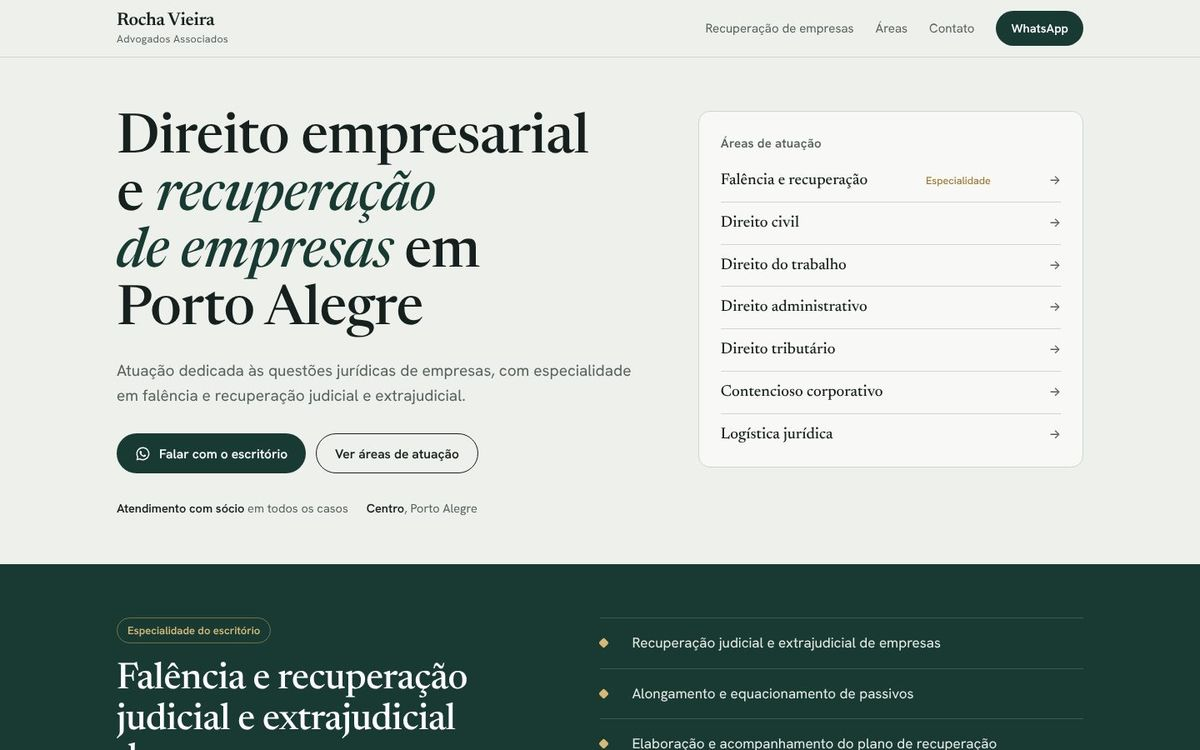
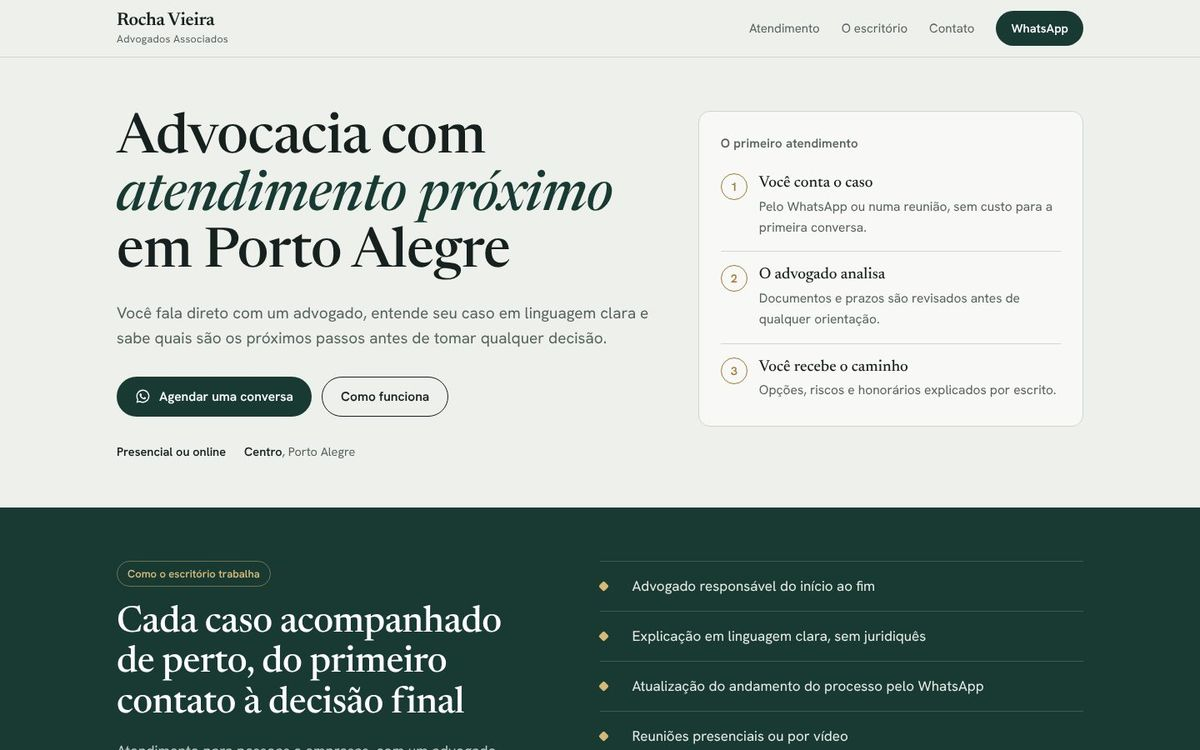
Modelo de advocacia genérico, sem áreas de atuação
Claude-Session: https://claude.ai/code/session_01BucXToaDXgnpeatRSNxMeH

diff --git a/modelo-advocacia/index.html b/modelo-advocacia/index.html
@@ -4,7 +4,7 @@
 <meta charset="utf-8">
 <meta name="viewport" content="width=device-width, initial-scale=1">
 <title>Modelo de site para escritório de advocacia | Luís Antônio</title>
-<meta name="description" content="Modelo de site para escritório de advocacia feito por Luís Antônio: áreas de atuação, sócios, contato e WhatsApp, pronto para celular.">
+<meta name="description" content="Modelo de site para escritório de advocacia feito por Luís Antônio: apresentação, atendimento, sócios, contato e WhatsApp, pronto para celular.">
 
 <meta name="theme-color" content="#eef0ec">
 <link rel="icon" href="/modelo-advocacia/favicon.svg" type="image/svg+xml">
@@ -77,6 +77,12 @@ p{margin:0}
 .index li a span + *{margin-left:auto}
 @media (max-width:900px){.hero{padding:40px 0 44px}.hero .wrap{grid-template-columns:1fr;gap:36px}}
 
+.steps{list-style:none;margin:0;padding:0;counter-reset:st}
+.steps li{counter-increment:st;display:grid;grid-template-columns:34px 1fr;gap:4px 12px;padding:16px 0;border-top:1px solid var(--line)}
+.steps li:first-child{border-top:0}
+.steps li::before{content:counter(st);grid-row:span 2;width:30px;height:30px;border-radius:50%;border:1px solid var(--brass);color:var(--brass);display:grid;place-items:center;font:600 14px/1 var(--sans)}
+.steps b{font:500 19px/1.25 var(--serif)}
+.steps span{color:var(--muted);font-size:15.5px}
 /* especialidade */
 .spec{background:var(--green);color:#e9ece6;padding:64px 0}
 .spec .wrap{display:grid;grid-template-columns:.95fr 1.05fr;gap:56px;align-items:start}
@@ -158,8 +164,8 @@ footer .wrap{display:flex;flex-wrap:wrap;justify-content:space-between;gap:10px;
   <div class="wrap">
     <a class="brand" href="#topo" aria-label="Rocha Vieira Advogados Associados, início"><b translate="no">Rocha Vieira</b><span>Advogados Associados</span></a>
     <nav class="nav" aria-label="Seções">
-      <a href="#recuperacao">Recuperação de empresas</a>
-      <a href="#areas">Áreas</a>
+      <a href="#atendimento">Atendimento</a>
+      <a href="#escritorio">O escritório</a>
       <a href="#contato">Contato</a>
       <a class="btn btn--wa" href="https://wa.me/5551995837188?text=Oi%20Lu%C3%ADs!%20Vi%20o%20modelo%20de%20site%20para%20advogados%20e%20quero%20um%20para%20o%20meu%20escrit%C3%B3rio." target="_blank" rel="noopener">WhatsApp</a>
     </nav>
@@ -170,91 +176,54 @@ footer .wrap{display:flex;flex-wrap:wrap;justify-content:space-between;gap:10px;
   <section class="hero" id="topo" aria-labelledby="h1">
     <div class="wrap">
       <div>
-        <h1 id="h1">Direito empresarial e <em>recuperação de empresas</em> em Porto Alegre</h1>
-        <p class="lead">Atuação dedicada às questões jurídicas de empresas, com especialidade em falência e recuperação judicial e extrajudicial.</p>
+        <h1 id="h1">Advocacia com <em>atendimento próximo</em> em Porto Alegre</h1>
+        <p class="lead">Você fala direto com um advogado, entende seu caso em linguagem clara e sabe quais são os próximos passos antes de tomar qualquer decisão.</p>
         <div class="ctas">
           <a class="btn btn--wa" href="https://wa.me/5551995837188?text=Oi%20Lu%C3%ADs!%20Vi%20o%20modelo%20de%20site%20para%20advogados%20e%20quero%20um%20para%20o%20meu%20escrit%C3%B3rio." target="_blank" rel="noopener">
             <svg viewBox="0 0 24 24" aria-hidden="true"><path fill="currentColor" d="M12 2a10 10 0 0 0-8.6 15.1L2 22l5-1.3A10 10 0 1 0 12 2Zm0 18.2c-1.5 0-3-.4-4.3-1.2l-.3-.2-3 .8.8-2.9-.2-.3A8.2 8.2 0 1 1 12 20.2Zm4.5-6.1c-.2-.1-1.5-.7-1.7-.8-.2-.1-.4-.1-.6.1l-.8 1c-.1.2-.3.2-.5.1a6.7 6.7 0 0 1-3.3-2.9c-.2-.4.2-.4.7-1.3.1-.2 0-.3 0-.4l-.8-1.8c-.2-.5-.4-.4-.6-.4h-.5c-.2 0-.4.1-.6.3-.2.2-.8.8-.8 2s.8 2.3.9 2.5c.1.2 1.6 2.5 4 3.5 1.5.6 2.1.7 2.8.6.5-.1 1.5-.6 1.7-1.2.2-.6.2-1.1.2-1.2-.1-.1-.2-.2-.4-.3Z"/></svg>
-            Falar com o escritório
+            Agendar uma conversa
           </a>
-          <a class="btn btn--ghost" href="#areas">Ver áreas de atuação</a>
+          <a class="btn btn--ghost" href="#atendimento">Como funciona</a>
         </div>
-        <p class="meta"><span><strong>Atendimento com sócio</strong> em todos os casos</span><span><strong>Centro</strong>, Porto Alegre</span></p>
+        <p class="meta"><span><strong>Presencial ou online</strong></span><span><strong>Centro</strong>, Porto Alegre</span></p>
       </div>
-      <nav class="index" aria-labelledby="idx-h">
-        <h2 id="idx-h">Áreas de atuação</h2>
-        <ol>
-          <li><a href="#recuperacao">Falência e recuperação <span>Especialidade</span></a></li>
-          <li><a href="#a-civil">Direito civil</a></li>
-          <li><a href="#a-trabalho">Direito do trabalho</a></li>
-          <li><a href="#a-adm">Direito administrativo</a></li>
-          <li><a href="#a-trib">Direito tributário</a></li>
-          <li><a href="#a-cont">Contencioso corporativo</a></li>
-          <li><a href="#logistica">Logística jurídica</a></li>
+      <div class="index" aria-labelledby="steps-h">
+        <h2 id="steps-h">O primeiro atendimento</h2>
+        <ol class="steps">
+          <li><b>Você conta o caso</b><span>Pelo WhatsApp ou numa reunião, sem custo para a primeira conversa.</span></li>
+          <li><b>O advogado analisa</b><span>Documentos e prazos são revisados antes de qualquer orientação.</span></li>
+          <li><b>Você recebe o caminho</b><span>Opções, riscos e honorários explicados por escrito.</span></li>
         </ol>
-      </nav>
+      </div>
     </div>
   </section>
 
-  <section class="spec" id="recuperacao" aria-labelledby="rec-h">
+  <section class="spec" id="atendimento" aria-labelledby="at-h">
     <div class="wrap">
       <div>
-        <span class="tag">Especialidade do escritório</span>
-        <h2 id="rec-h">Falência e recuperação judicial e extrajudicial de empresas</h2>
-        <p>Quando a empresa precisa reorganizar dívidas ou enfrenta um pedido de falência, o escritório acompanha o processo do início ao fim, com assessoria em todas as áreas envolvidas.</p>
-        <a class="btn" href="https://wa.me/5551995837188?text=Oi%20Lu%C3%ADs!%20Vi%20o%20modelo%20de%20site%20para%20advogados%20e%20quero%20um%20para%20o%20meu%20escrit%C3%B3rio." target="_blank" rel="noopener">Conversar sobre a minha empresa</a>
+        <span class="tag">Como o escritório trabalha</span>
+        <h2 id="at-h">Cada caso acompanhado de perto, do primeiro contato à decisão final</h2>
+        <p>Atendimento para pessoas e empresas, com um advogado responsável por cada caso e retorno claro em cada etapa.</p>
+        <a class="btn" href="https://wa.me/5551995837188?text=Oi%20Lu%C3%ADs!%20Vi%20o%20modelo%20de%20site%20para%20advogados%20e%20quero%20um%20para%20o%20meu%20escrit%C3%B3rio." target="_blank" rel="noopener">Falar com um advogado</a>
       </div>
       <ul>
-        <li>Recuperação judicial e extrajudicial de empresas</li>
-        <li>Alongamento e equacionamento de passivos</li>
-        <li>Elaboração e acompanhamento do plano de recuperação</li>
-        <li>Assessoria completa, em todas as áreas, para empresas em recuperação</li>
-        <li>Acompanhamento até o final após a decretação de falência</li>
-        <li>Requerimento de encerramento judicial solicitado pelo devedor</li>
+        <li>Advogado responsável do início ao fim</li>
+        <li>Explicação em linguagem clara, sem juridiquês</li>
+        <li>Atualização do andamento do processo pelo WhatsApp</li>
+        <li>Reuniões presenciais ou por vídeo</li>
+        <li>Honorários combinados por escrito antes de começar</li>
       </ul>
     </div>
   </section>
 
-  <section class="areas" id="areas" aria-labelledby="areas-h">
-    <div class="wrap">
-      <div class="head">
-        <h2 id="areas-h">Outras áreas de atuação</h2>
-        <p>Direito civil, comercial, bancário, tributário, administrativo, trabalhista e contencioso corporativo. Toque em cada área para ver os serviços.</p>
-      </div>
-      <div class="acc">
-        <details id="a-civil">
-          <summary>Direito civil</summary>
-          <ul><li>Responsabilidade civil</li><li>Seguros</li><li>Danos moral e material</li><li>Medidas cautelares</li><li>Ações ordinárias</li><li>Ações de cobrança</li><li>Execuções</li><li>Embargos</li></ul>
-        </details>
-        <details id="a-trabalho">
-          <summary>Direito do trabalho</summary>
-          <ul><li>Defesas administrativas e judiciais</li><li>Assessoria de recursos humanos</li><li>Ações rescisórias e consignatórias</li><li>Embargos de terceiros e à execução</li><li>Mandado de segurança</li><li>Ações declaratórias</li></ul>
-        </details>
-        <details id="a-adm">
-          <summary>Direito administrativo</summary>
-          <ul><li>Acompanhamento de licitações</li><li>Análise de editais</li><li>Recursos administrativos e judiciais em licitações</li><li>Interposição de recursos administrativos</li><li>Impugnações de débitos fiscais</li></ul>
-        </details>
-        <details id="a-cont">
-          <summary>Contencioso corporativo</summary>
-          <ul><li>Responsabilidade civil</li><li>Seguros</li><li>Danos moral e material</li><li>Medidas cautelares</li><li>Ações de cobrança</li><li>Execuções e embargos</li></ul>
-        </details>
-        
-        <div class="row-plain" id="a-trib">Direito tributário <a href="https://wa.me/5551995837188?text=Oi%20Lu%C3%ADs!%20Vi%20o%20modelo%20de%20site%20para%20advogados%20e%20quero%20um%20para%20o%20meu%20escrit%C3%B3rio." target="_blank" rel="noopener">Consultar</a></div>
-        <div class="row-plain">Direito comercial e bancário <a href="https://wa.me/5551995837188?text=Oi%20Lu%C3%ADs!%20Vi%20o%20modelo%20de%20site%20para%20advogados%20e%20quero%20um%20para%20o%20meu%20escrit%C3%B3rio." target="_blank" rel="noopener">Consultar</a></div>
-      </div>
-    </div>
-  </section>
-
-  <section class="logi" id="logistica" aria-labelledby="logi-h">
+  <section class="logi" id="escritorio" aria-labelledby="esc-h" style="padding-top:64px">
     <div class="wrap">
       <div class="box">
-        <blockquote>“Cada caso é acompanhado de perto por um dos sócios, do primeiro contato à decisão final.”<cite>Rocha Vieira Advogados Associados</cite></blockquote>
+        <blockquote>“Preferimos explicar duas vezes a deixar uma dúvida sem resposta.”<cite>Rocha Vieira Advogados Associados</cite></blockquote>
         <div class="side">
-          <h2 id="logi-h">Logística jurídica</h2>
-          <p>Apoio a empresas e a outros escritórios nas etapas operacionais dos processos.</p>
-          <ul class="chips">
-            <li>Digitalização de processos</li><li>Retiradas</li><li>Busca e entrega de petições</li><li>Cartas precatórias</li><li>Distribuição de iniciais</li><li>Desentranhamento de documentos</li><li>Desarquivamentos</li><li>Confecção de peças processuais</li><li>Acompanhamentos</li><li>Audiências cíveis e trabalhistas</li><li>Prepostos</li>
-          </ul>
+          <h2 id="esc-h">O escritório</h2>
+          <p>Um escritório de porte enxuto, com sala no Centro de Porto Alegre e atendimento também por vídeo para clientes de outras cidades.</p>
+          <ul class="chips"><li>Atendimento com hora marcada</li><li>Reunião por vídeo</li><li>Retorno pelo WhatsApp</li><li>Contrato por escrito</li></ul>
         </div>
       </div>
     </div>
@@ -291,6 +260,5 @@ footer .wrap{display:flex;flex-wrap:wrap;justify-content:space-between;gap:10px;
 
 <a class="demo" href="https://luisantonio-portfolio.vercel.app/#trabalhos">Modelo de site para advogados, feito por Luís Antônio</a>
 <style>.demo{position:fixed;left:16px;bottom:calc(16px + env(safe-area-inset-bottom));z-index:40;background:rgba(17,17,17,.9);color:#fff;text-decoration:none;font:600 13px/1.3 system-ui,sans-serif;padding:10px 14px;border-radius:999px;box-shadow:0 6px 18px rgba(0,0,0,.25);max-width:calc(100vw - 110px)}.demo:hover{background:#000}</style>
-<script>(()=>{if(location.hash){const d=document.querySelector(location.hash);if(d&&d.tagName==='DETAILS')d.open=true}document.querySelectorAll('.index a').forEach(a=>a.addEventListener('click',()=>{const d=document.querySelector(a.getAttribute('href'));if(d&&d.tagName==='DETAILS')d.open=true}))})();</script>
 </body>
 </html>

diff --git a/index.html b/index.html
@@ -176,8 +176,8 @@
         </article>
         <article class="card card--row card--open span-4">
           <h3>Modelo de site para escritório de advocacia</h3>
-          <p>Áreas de atuação, especialidade, sócios e WhatsApp, com visual sóbrio e pronto para celular.</p>
-          <div class="panel"><img width="1200" height="750" class="frame__img" src="modelo-advocacia.jpg" alt="Topo do modelo de site para escritório de advocacia com as áreas de atuação" loading="lazy"></div>
+          <p>Apresentação, primeiro atendimento, sócios e WhatsApp, com visual sóbrio e pronto para celular.</p>
+          <div class="panel"><img width="1200" height="750" class="frame__img" src="modelo-advocacia.jpg" alt="Topo do modelo de site para escritório de advocacia com os passos do primeiro atendimento" loading="lazy"></div>
           <a class="link" href="/modelo-advocacia/">Ver o modelo para advogados</a>
         </article>
       </div>
